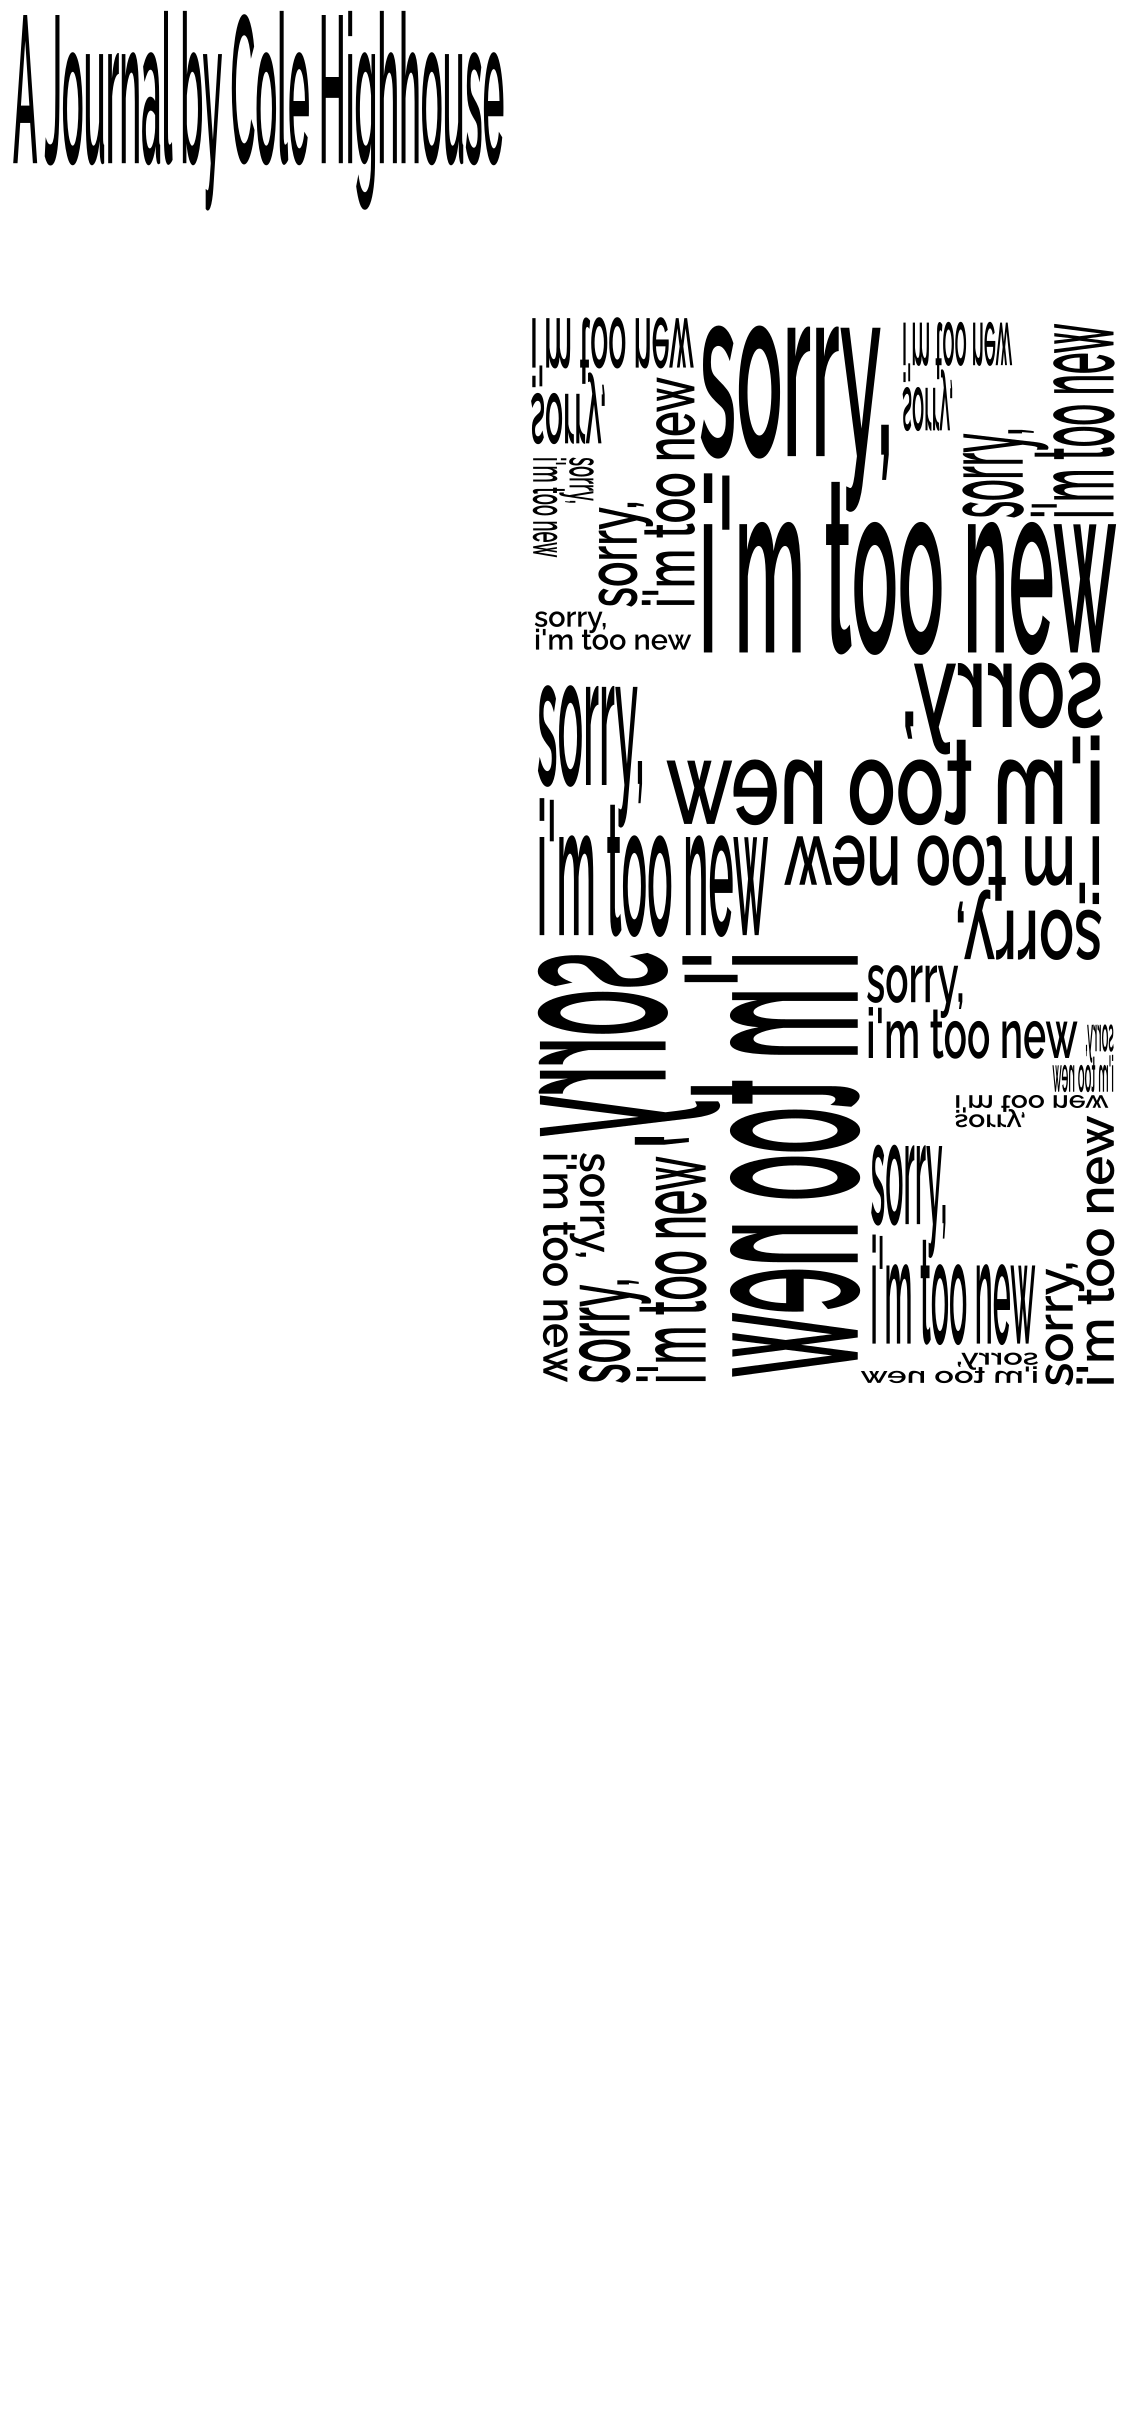
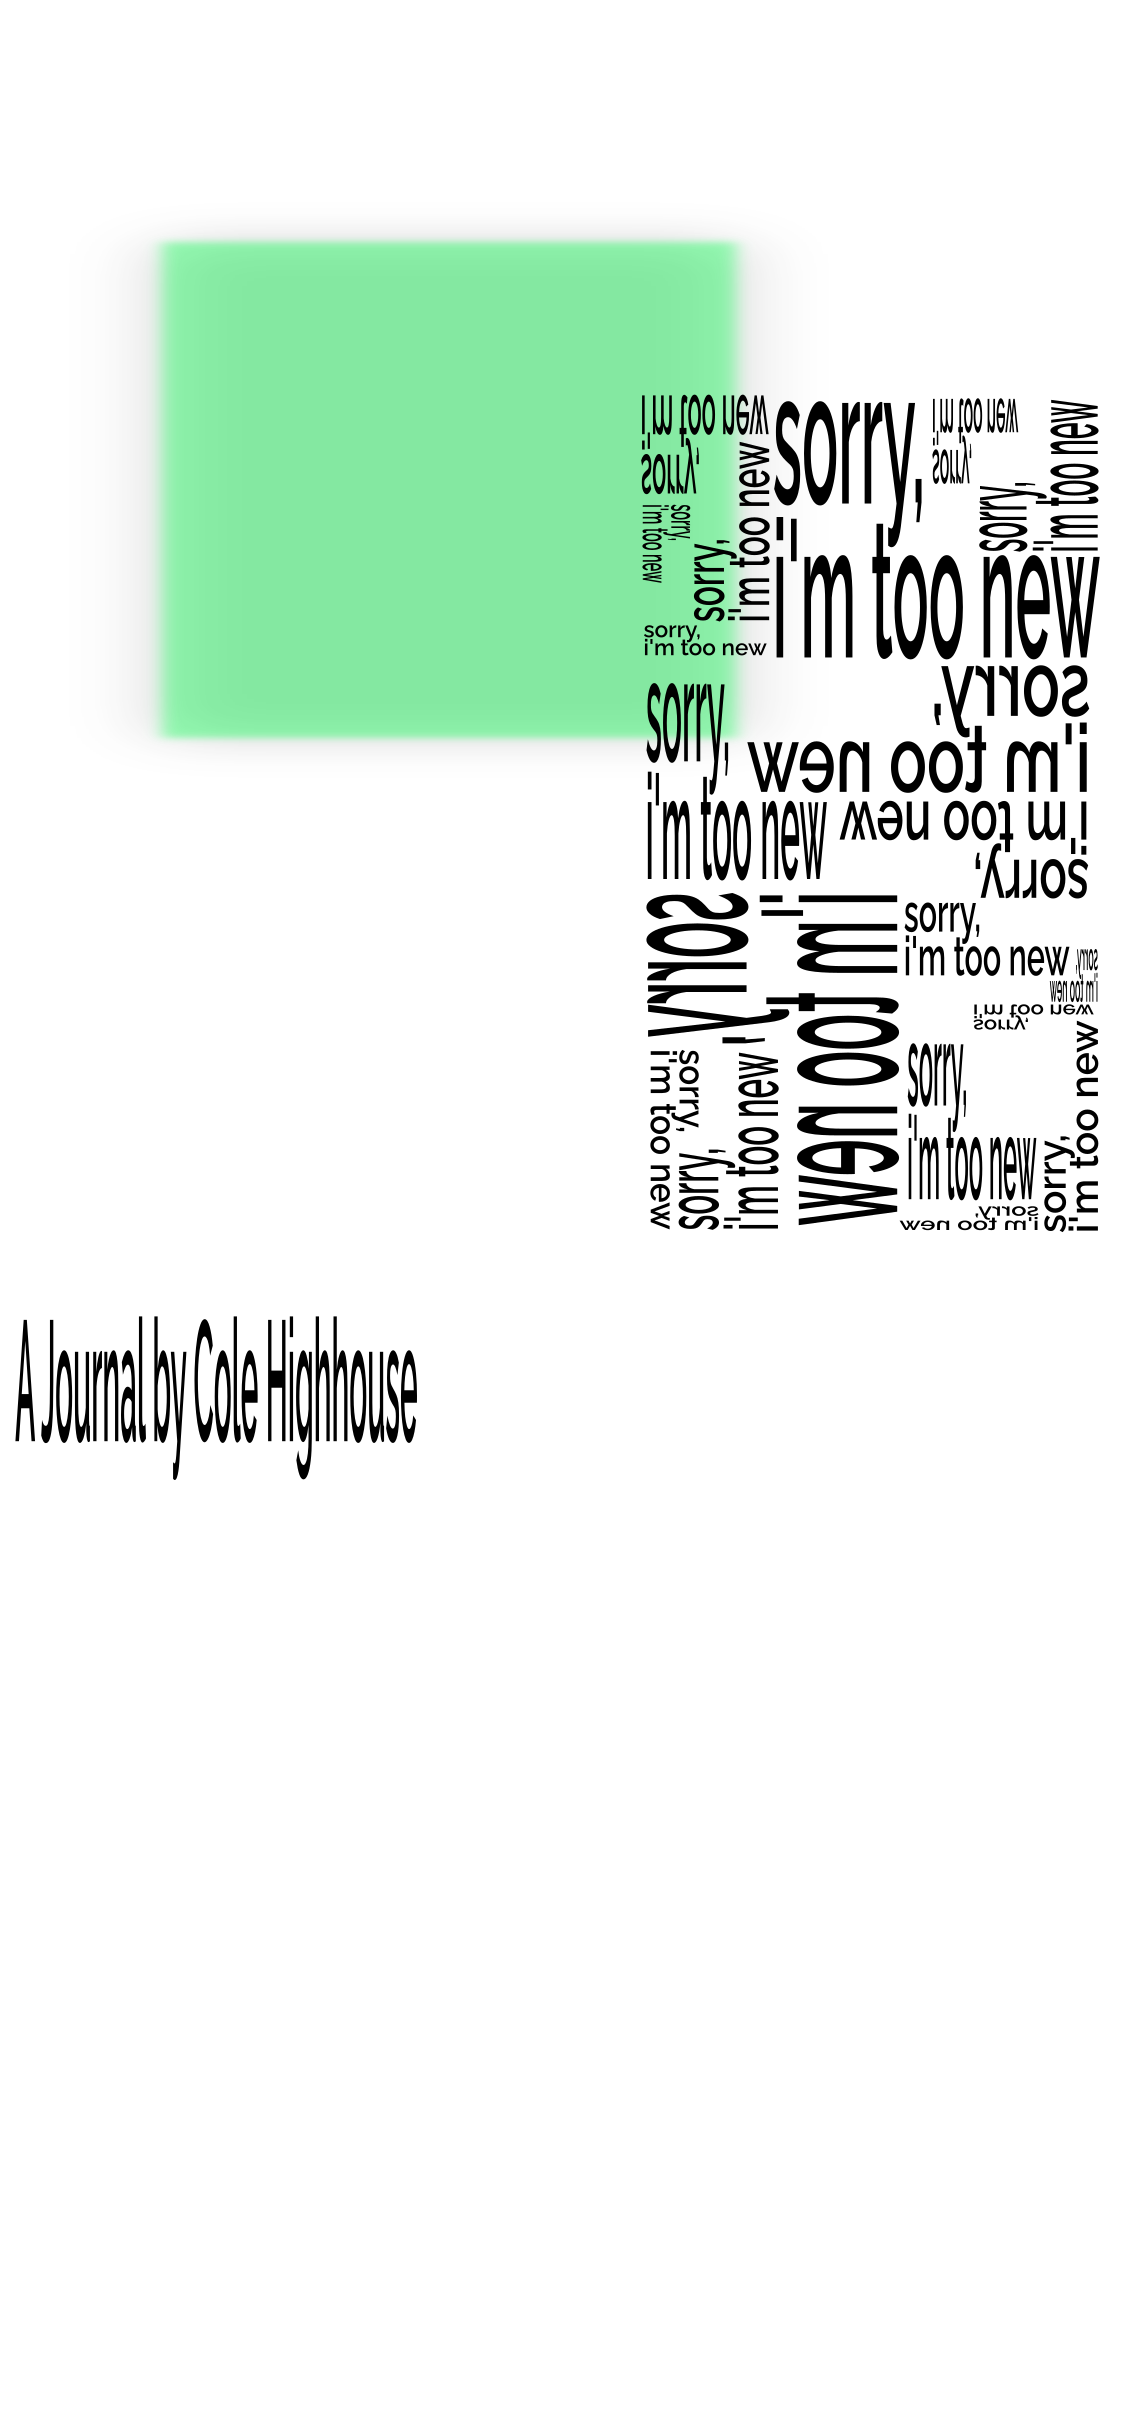
phone

Changed region(s): [[0.0, 0.0, 0.9956, 0.5928], [0.0, 0.5304, 0.3733, 0.624]]

diff --git a/style.css b/style.css
@@ -135,7 +135,7 @@ button {
 
 .box1 {
     position: absolute;
-    box-shadow: 0px 0px 30px #7d5c71;
+    box-shadow: 0px 0px 30px black;
     border-radius: 2%;
     right: 20%;
     top: 40%;
@@ -171,10 +171,10 @@ button {
 
   .box1 {
     position: absolute;
-    box-shadow: 0px 0px 30px #7d5c71;
+    box-shadow: 0px 0px 30px black;
     border-radius: 2%;
-    right: 30%;
-    top: 30%;
+    right: 70%;
+    top: -10%;
     height: 150px;
     width: 200px;
     text-align: center;
@@ -200,6 +200,4 @@ button {
   scale: 70%;
 }
 
-button {
-}
 }
